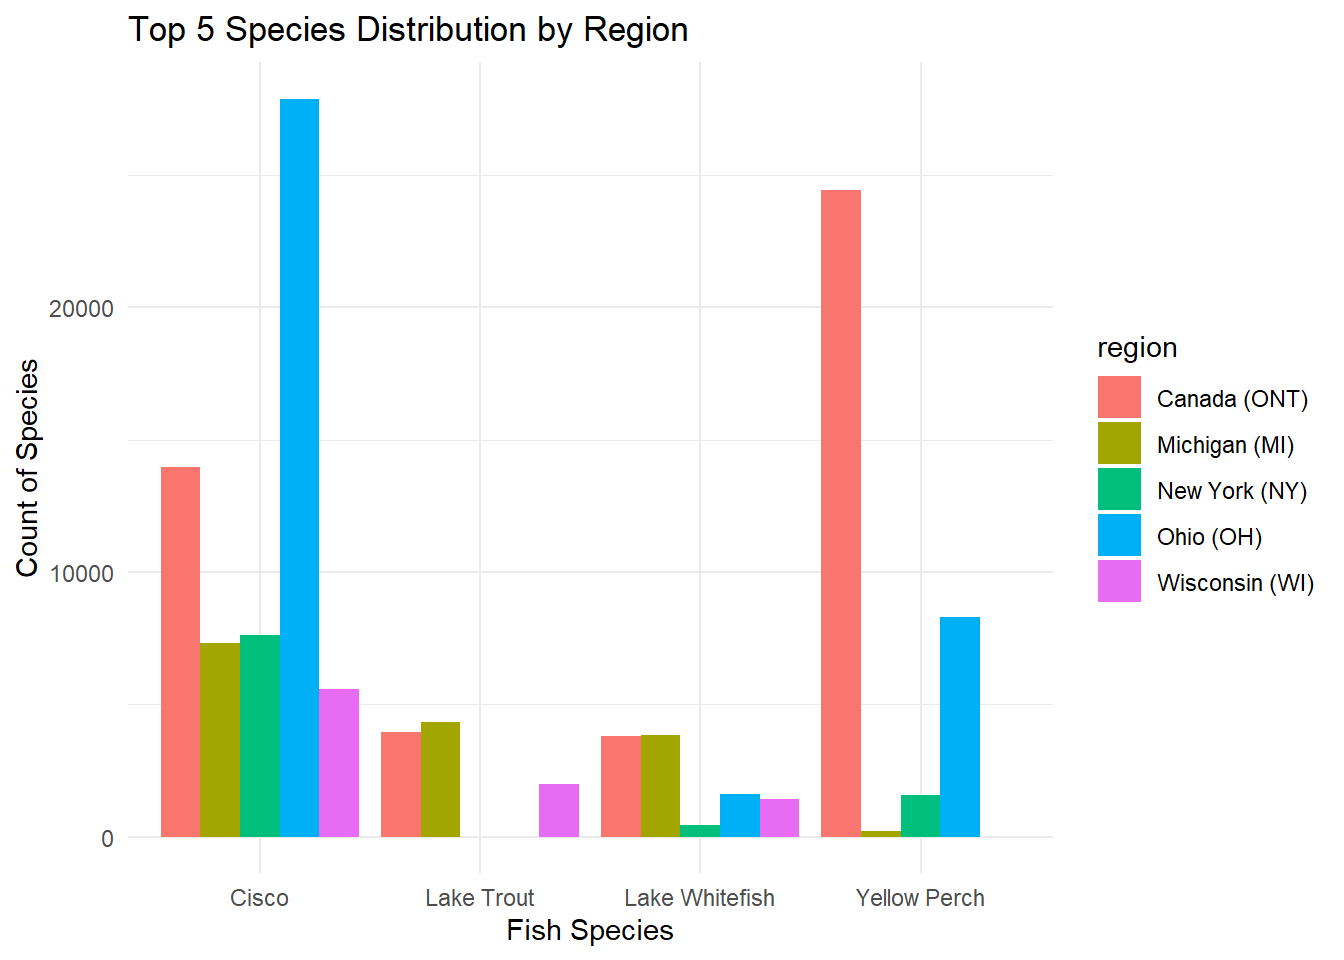
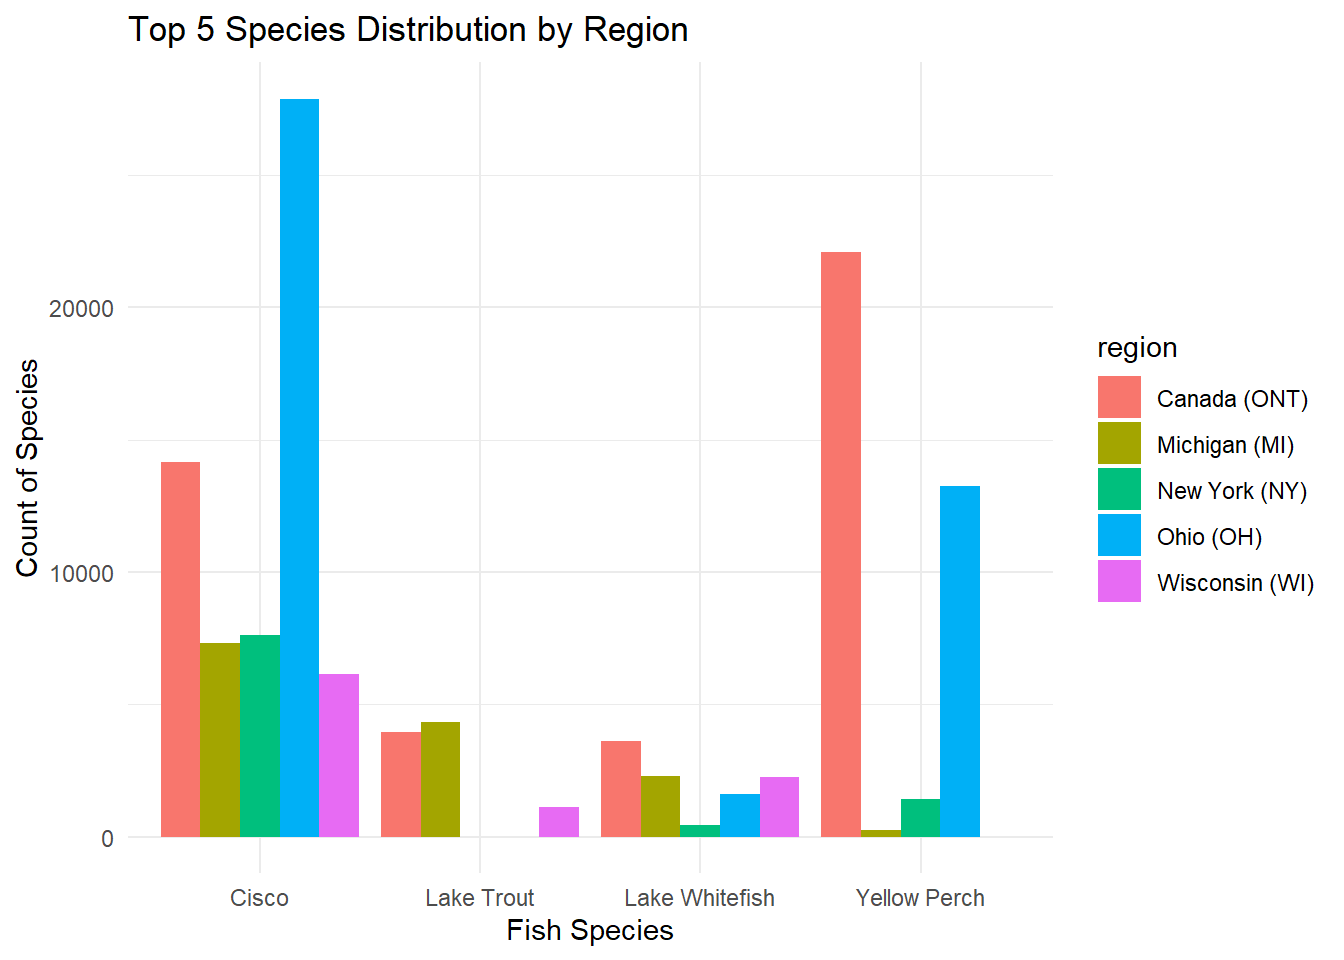
Homework 5

diff --git a/Great Lake Fish Analysis.html b/Great Lake Fish Analysis.html
@@ -111,9 +111,9 @@ pre > code.sourceCode > span > a:first-child::before { text-decoration: underlin
 </section>
 <section id="introduction" class="level2">
 <h2 class="anchored" data-anchor-id="introduction">Introduction</h2>
-<p>The Great Lakes form part of an ecosystem in the aquatic world and regional fisheries due to their numerous fish species. Sometimes, fish species within the same lake may be determined by the conditions around such lakes. This paper focuses on the species of fish within the Great Lakes and, in particular, tries to find out if there are differences in species among regions within the lakes.<br>
-In this analysis, there are two major variables of interest: species of fish and the region within which they occur. The species variable includes different types of fish such as Lake Sturgeon, Northern Pike, Suckers, White Perch, and Yellow Perch, among others. The region variable refers to different areas reporting their fish populations; examples include the U.S. Total (MI), and Canada (ONT).<br>
-This study aims to investigate how fish species vary among regions in the Great Lakes, which will also shed light on the regional ecological differences and the species distribution patterns.</p>
+<p>The Great Lakes, one of the largest freshwater ecosystems in the world, have been essential to maintaining commercial fish production for more than a hundred years. The fisheries in this basin have been an important economic and ecological resource, benefiting local communities, industries, and biodiversity. An understanding of trends in fish production across different locations and species proves to be most helpful in judging the health of ecosystems, trends in populations, and sustainability in fisheries management.</p>
+<p>This project examines historical and current commercial fish production records in the Great Lakes from 1867 to 2020. The data set, which was gathered from a number of government and tribal agencies, provides a comprehensive report of fish catches from different locations, species, and time intervals. Originally collected in 1940 by the international Board of Inquiry for the Great Lakes Fisheries, the data have been updated periodically by the Great Lakes Fisheries, the data have been updated periodically by the Great Lakes Fishery Commission and other agencies, keeping it current and accessible to researchers.</p>
+<p>For the analysis in this study, the region of occurrence and the species of fish are the two key variables. the top Five most caught species of fish have been emphasized in this research in a comparison of their occurrence over the chosen regions of Michigan (MI), New York (NY), Ohio (OH), Wisconsin (WI), and Ontario (ONT). The aim of this study is to investigate the potential variability of fish species in Great Lakes locations and hence increase the general understanding of regional ecological diversity and species distributional patterns.</p>
 </section>
 <section id="hypothesis" class="level2">
 <h2 class="anchored" data-anchor-id="hypothesis">Hypothesis</h2>
@@ -122,6 +122,7 @@ This study aims to investigate how fish species vary among regions in the Great 
 </section>
 <section id="gathering-data" class="level2">
 <h2 class="anchored" data-anchor-id="gathering-data">Gathering Data</h2>
+<p>The following code imports the tidyverse package and reads in two data sets with the read_cvs() function from readr. The fishing data set contains fishing data, while the stocked data set holds data about stocked fish. Each data set is read from a URL and imported into separate variables to be analyzed.</p>
 <div class="cell">
 <div class="sourceCode cell-code" id="cb1"><pre class="sourceCode r code-with-copy"><code class="sourceCode r"><span id="cb1-1"><a href="#cb1-1" aria-hidden="true" tabindex="-1"></a><span class="co">#install.packages("tidyverse")</span></span>
 <span id="cb1-2"><a href="#cb1-2" aria-hidden="true" tabindex="-1"></a><span class="fu">library</span>(tidyverse)</span></code><button title="Copy to Clipboard" class="code-copy-button"><i class="bi"></i></button></pre></div>
@@ -166,7 +167,10 @@ dbl (14): SID, YEAR, MONTH, DAY, LATITUDE, LONGITUDE, GRID, NO_STOCKED, YEAR...
 ℹ Specify the column types or set `show_col_types = FALSE` to quiet this message.</code></pre>
 </div>
 </div>
-<p>SOMETHING GOES HERE</p>
+</section>
+<section id="data-split" class="level2">
+<h2 class="anchored" data-anchor-id="data-split">Data Split</h2>
+<p>The following code splits the fishing data set into a training and a test set. The training data is put into exploratory_data, and the test data is put into test_data.</p>
 <div class="cell">
 <div class="sourceCode cell-code" id="cb8"><pre class="sourceCode r code-with-copy"><code class="sourceCode r"><span id="cb8-1"><a href="#cb8-1" aria-hidden="true" tabindex="-1"></a><span class="co">#install.packages("tidymodels")</span></span>
 <span id="cb8-2"><a href="#cb8-2" aria-hidden="true" tabindex="-1"></a><span class="fu">library</span>(tidymodels)</span></code><button title="Copy to Clipboard" class="code-copy-button"><i class="bi"></i></button></pre></div>
@@ -189,7 +193,7 @@ dbl (14): SID, YEAR, MONTH, DAY, LATITUDE, LONGITUDE, GRID, NO_STOCKED, YEAR...
 ✖ dplyr::lag()      masks stats::lag()
 ✖ yardstick::spec() masks readr::spec()
 ✖ recipes::step()   masks stats::step()
-• Dig deeper into tidy modeling with R at https://www.tmwr.org</code></pre>
+• Search for functions across packages at https://www.tidymodels.org/find/</code></pre>
 </div>
 <div class="sourceCode cell-code" id="cb12"><pre class="sourceCode r code-with-copy"><code class="sourceCode r"><span id="cb12-1"><a href="#cb12-1" aria-hidden="true" tabindex="-1"></a>my_data_splits <span class="ot">&lt;-</span> <span class="fu">initial_split</span>(fishing, <span class="at">prop =</span> <span class="fl">0.5</span>)</span>
 <span id="cb12-2"><a href="#cb12-2" aria-hidden="true" tabindex="-1"></a></span>
@@ -205,13 +209,13 @@ dbl (14): SID, YEAR, MONTH, DAY, LATITUDE, LONGITUDE, GRID, NO_STOCKED, YEAR...
 <span id="cb13-2"><a href="#cb13-2" aria-hidden="true" tabindex="-1"></a><span class="fu">str</span>(test_data)</span></code><button title="Copy to Clipboard" class="code-copy-button"><i class="bi"></i></button></pre></div>
 <div class="cell-output cell-output-stdout">
 <pre><code>spc_tbl_ [32,853 × 7] (S3: spec_tbl_df/tbl_df/tbl/data.frame)
- $ year       : num [1:32853] 1991 1991 1992 1992 1993 ...
+ $ year       : num [1:32853] 1991 1991 1991 1991 1992 ...
  $ lake       : chr [1:32853] "Erie" "Erie" "Erie" "Erie" ...
  $ species    : chr [1:32853] "American Eel" "American Eel" "American Eel" "American Eel" ...
- $ grand_total: num [1:32853] 1 1 0 0 0 0 0 0 0 0 ...
+ $ grand_total: num [1:32853] 1 1 1 1 0 0 0 0 0 0 ...
  $ comments   : chr [1:32853] NA NA NA NA ...
- $ region     : chr [1:32853] "Michigan (MI)" "New York (NY)" "Michigan (MI)" "U.S. Total" ...
- $ values     : num [1:32853] 0 0 0 0 0 0 0 0 0 0 ...
+ $ region     : chr [1:32853] "Michigan (MI)" "Ohio (OH)" "Pennsylvania (PA)" "Canada (ONT)" ...
+ $ values     : num [1:32853] 0 0 0 1 0 0 0 0 0 0 ...
  - attr(*, "spec")=
   .. cols(
   ..   year = col_double(),
@@ -261,6 +265,7 @@ dbl (14): SID, YEAR, MONTH, DAY, LATITUDE, LONGITUDE, GRID, NO_STOCKED, YEAR...
 </section>
 <section id="visualizing-species-distribution" class="level2">
 <h2 class="anchored" data-anchor-id="visualizing-species-distribution">Visualizing Species Distribution</h2>
+<p>The following coding function provides a bar graph of the distribution of fish species across the different regions. To enhance readability and prevent overcrowding, the five most common species by total count were used. The bars are ordered by region, to allow an easy comparison.</p>
 <div class="cell">
 <div class="sourceCode cell-code" id="cb17"><pre class="sourceCode r code-with-copy"><code class="sourceCode r"><span id="cb17-1"><a href="#cb17-1" aria-hidden="true" tabindex="-1"></a><span class="co"># Select top 5 species by total count from the test_data</span></span>
 <span id="cb17-2"><a href="#cb17-2" aria-hidden="true" tabindex="-1"></a>top_species <span class="ot">&lt;-</span> test_data <span class="sc">%&gt;%</span></span>
@@ -288,7 +293,7 @@ dbl (14): SID, YEAR, MONTH, DAY, LATITUDE, LONGITUDE, GRID, NO_STOCKED, YEAR...
 <span id="cb17-24"><a href="#cb17-24" aria-hidden="true" tabindex="-1"></a>  <span class="fu">theme</span>(<span class="at">axis.text.x =</span> <span class="fu">element_text</span>(<span class="at">angle =</span> <span class="dv">45</span>, <span class="at">hjust =</span> <span class="dv">1</span>)) <span class="sc">+</span></span>
 <span id="cb17-25"><a href="#cb17-25" aria-hidden="true" tabindex="-1"></a>  <span class="fu">theme_minimal</span>()</span></code><button title="Copy to Clipboard" class="code-copy-button"><i class="bi"></i></button></pre></div>
 <div class="cell-output cell-output-stderr">
-<pre><code>Warning: Removed 323 rows containing missing values or values outside the scale range
+<pre><code>Warning: Removed 357 rows containing missing values or values outside the scale range
 (`geom_bar()`).</code></pre>
 </div>
 <div class="cell-output-display">
@@ -297,6 +302,46 @@ dbl (14): SID, YEAR, MONTH, DAY, LATITUDE, LONGITUDE, GRID, NO_STOCKED, YEAR...
 <p><img src="Great-Lake-Fish-Analysis_files/figure-html/unnamed-chunk-5-1.png" class="img-fluid figure-img" width="672"></p>
 </figure>
 </div>
+</div>
+</div>
+<p>The bar graph illustrates the frequency of the top five species in the areas that were chosen. Ohio (OH) has the most amount of Cisco species, and Canada (ONT) has much more Yellow Perch species than the other regions. Other species, such as Lake Trout and Lake Whitefish, are spread out among different regions but in lower overall counts. Species variations reveal differences in distribution by region among fish, with potential explanations that might include environmental circumstances and fishing activity.</p>
+</section>
+<section id="something-goes-here" class="level2">
+<h2 class="anchored" data-anchor-id="something-goes-here">SOMETHING GOES HERE</h2>
+<div class="cell">
+<div class="sourceCode cell-code" id="cb19"><pre class="sourceCode r code-with-copy"><code class="sourceCode r"><span id="cb19-1"><a href="#cb19-1" aria-hidden="true" tabindex="-1"></a><span class="fu">ggplot</span>(filtered_data, <span class="fu">aes</span>(<span class="at">x =</span> values, <span class="at">y =</span> species, <span class="at">fill =</span> region)) <span class="sc">+</span></span>
+<span id="cb19-2"><a href="#cb19-2" aria-hidden="true" tabindex="-1"></a>  <span class="fu">geom_boxplot</span>(<span class="at">outliers =</span> <span class="cn">FALSE</span>) <span class="sc">+</span></span>
+<span id="cb19-3"><a href="#cb19-3" aria-hidden="true" tabindex="-1"></a>  <span class="fu">labs</span>(<span class="at">title =</span> <span class="st">"Species Count Distribution by Region"</span>,</span>
+<span id="cb19-4"><a href="#cb19-4" aria-hidden="true" tabindex="-1"></a>       <span class="at">x =</span> <span class="st">"Species Count"</span>,</span>
+<span id="cb19-5"><a href="#cb19-5" aria-hidden="true" tabindex="-1"></a>       <span class="at">y =</span> <span class="st">"Fish Species"</span>) <span class="sc">+</span></span>
+<span id="cb19-6"><a href="#cb19-6" aria-hidden="true" tabindex="-1"></a>  <span class="fu">theme_minimal</span>()</span></code><button title="Copy to Clipboard" class="code-copy-button"><i class="bi"></i></button></pre></div>
+<div class="cell-output cell-output-stderr">
+<pre><code>Warning: Removed 357 rows containing non-finite outside the scale range
+(`stat_boxplot()`).</code></pre>
+</div>
+<div class="cell-output-display">
+<div>
+<figure class="figure">
+<p><img src="Great-Lake-Fish-Analysis_files/figure-html/unnamed-chunk-6-1.png" class="img-fluid figure-img" width="672"></p>
+</figure>
+</div>
+</div>
+</div>
+<div class="cell">
+<div class="sourceCode cell-code" id="cb21"><pre class="sourceCode r code-with-copy"><code class="sourceCode r"><span id="cb21-1"><a href="#cb21-1" aria-hidden="true" tabindex="-1"></a><span class="co"># Create a contingency table of species count by region</span></span>
+<span id="cb21-2"><a href="#cb21-2" aria-hidden="true" tabindex="-1"></a>contingency_table <span class="ot">&lt;-</span> <span class="fu">table</span>(filtered_data<span class="sc">$</span>species, filtered_data<span class="sc">$</span>region)</span>
+<span id="cb21-3"><a href="#cb21-3" aria-hidden="true" tabindex="-1"></a></span>
+<span id="cb21-4"><a href="#cb21-4" aria-hidden="true" tabindex="-1"></a><span class="co"># Perform the Chi-Squared Test for Independence</span></span>
+<span id="cb21-5"><a href="#cb21-5" aria-hidden="true" tabindex="-1"></a>chi_squared_result <span class="ot">&lt;-</span> <span class="fu">chisq.test</span>(contingency_table)</span>
+<span id="cb21-6"><a href="#cb21-6" aria-hidden="true" tabindex="-1"></a></span>
+<span id="cb21-7"><a href="#cb21-7" aria-hidden="true" tabindex="-1"></a><span class="co"># Print the result</span></span>
+<span id="cb21-8"><a href="#cb21-8" aria-hidden="true" tabindex="-1"></a><span class="fu">print</span>(chi_squared_result)</span></code><button title="Copy to Clipboard" class="code-copy-button"><i class="bi"></i></button></pre></div>
+<div class="cell-output cell-output-stdout">
+<pre><code>
+    Pearson's Chi-squared test
+
+data:  contingency_table
+X-squared = 121.31, df = 12, p-value &lt; 2.2e-16</code></pre>
 </div>
 </div>
 </section>

diff --git a/Great Lake Fish Analysis.html.md b/Great Lake Fish Analysis.html.md
@@ -16,9 +16,11 @@ execute:
 
 ## Introduction
 
-The Great Lakes form part of an ecosystem in the aquatic world and regional fisheries due to their numerous fish species. Sometimes, fish species within the same lake may be determined by the conditions around such lakes. This paper focuses on the species of fish within the Great Lakes and, in particular, tries to find out if there are differences in species among regions within the lakes.\
-In this analysis, there are two major variables of interest: species of fish and the region within which they occur. The species variable includes different types of fish such as Lake Sturgeon, Northern Pike, Suckers, White Perch, and Yellow Perch, among others. The region variable refers to different areas reporting their fish populations; examples include the U.S. Total (MI), and Canada (ONT).\
-This study aims to investigate how fish species vary among regions in the Great Lakes, which will also shed light on the regional ecological differences and the species distribution patterns.
+The Great Lakes, one of the largest freshwater ecosystems in the world, have been essential to maintaining commercial fish production for more than a hundred years. The fisheries in this basin have been an important economic and ecological resource, benefiting local communities, industries, and biodiversity. An understanding of trends in fish production across different locations and species proves to be most helpful in judging the health of ecosystems, trends in populations, and sustainability in fisheries management.
+
+This project examines historical and current commercial fish production records in the Great Lakes from 1867 to 2020. The data set, which was gathered from a number of government and tribal agencies, provides a comprehensive report of fish catches from different locations, species, and time intervals. Originally collected in 1940 by the international Board of Inquiry for the Great Lakes Fisheries, the data have been updated periodically by the Great Lakes Fisheries, the data have been updated periodically by the Great Lakes Fishery Commission and other agencies, keeping it current and accessible to researchers.
+
+For the analysis in this study, the region of occurrence and the species of fish are the two key variables. the top Five most caught species of fish have been emphasized in this research in a comparison of their occurrence over the chosen regions of Michigan (MI), New York (NY), Ohio (OH), Wisconsin (WI), and Ontario (ONT). The aim of this study is to investigate the potential variability of fish species in Great Lakes locations and hence increase the general understanding of regional ecological diversity and species distributional patterns.
 
 ## Hypothesis
 
@@ -27,6 +29,8 @@ This study aims to investigate how fish species vary among regions in the Great 
 **Alternative Hypothesis:** The species of fish are highly distributed among different regions within the Great Lakes. In other words, some species are more predominant in certain regions, indicating a relationship between the types of species and the regional location.
 
 ## Gathering Data
+
+The following code imports the tidyverse package and reads in two data sets with the read_cvs() function from readr. The fishing data set contains fishing data, while the stocked data set holds data about stocked fish. Each data set is read from a URL and imported into separate variables to be analyzed.
 
 
 
@@ -110,7 +114,9 @@ dbl (14): SID, YEAR, MONTH, DAY, LATITUDE, LONGITUDE, GRID, NO_STOCKED, YEAR...
 
 
 
-SOMETHING GOES HERE
+## Data Split 
+
+The following code splits the fishing data set into a training and a test set. The training data is put into exploratory_data, and the test data is put into test_data.
 
 
 
@@ -154,7 +160,7 @@ library(tidymodels)
 ✖ dplyr::lag()      masks stats::lag()
 ✖ yardstick::spec() masks readr::spec()
 ✖ recipes::step()   masks stats::step()
-• Dig deeper into tidy modeling with R at https://www.tmwr.org
+• Search for functions across packages at https://www.tidymodels.org/find/
 ```
 
 
@@ -187,13 +193,13 @@ str(test_data)
 
 ```
 spc_tbl_ [32,853 × 7] (S3: spec_tbl_df/tbl_df/tbl/data.frame)
- $ year       : num [1:32853] 1991 1991 1992 1992 1993 ...
+ $ year       : num [1:32853] 1991 1991 1991 1991 1992 ...
  $ lake       : chr [1:32853] "Erie" "Erie" "Erie" "Erie" ...
  $ species    : chr [1:32853] "American Eel" "American Eel" "American Eel" "American Eel" ...
- $ grand_total: num [1:32853] 1 1 0 0 0 0 0 0 0 0 ...
+ $ grand_total: num [1:32853] 1 1 1 1 0 0 0 0 0 0 ...
  $ comments   : chr [1:32853] NA NA NA NA ...
- $ region     : chr [1:32853] "Michigan (MI)" "New York (NY)" "Michigan (MI)" "U.S. Total" ...
- $ values     : num [1:32853] 0 0 0 0 0 0 0 0 0 0 ...
+ $ region     : chr [1:32853] "Michigan (MI)" "Ohio (OH)" "Pennsylvania (PA)" "Canada (ONT)" ...
+ $ values     : num [1:32853] 0 0 0 1 0 0 0 0 0 0 ...
  - attr(*, "spec")=
   .. cols(
   ..   year = col_double(),
@@ -264,6 +270,8 @@ This is a format table where rows correspond to regions, and columns correspond 
 
 ## Visualizing Species Distribution
 
+The following coding function provides a bar graph of the distribution of fish species across the different regions. To enhance readability and prevent overcrowding, the five most common species by total count were used. The bars are ordered by region, to allow an easy comparison.
+
 
 
 ::: {.cell}
@@ -299,7 +307,7 @@ ggplot(filtered_data, aes(x = species, y = values, fill = region)) +  # Use 'val
 ::: {.cell-output .cell-output-stderr}
 
 ```
-Warning: Removed 323 rows containing missing values or values outside the scale range
+Warning: Removed 357 rows containing missing values or values outside the scale range
 (`geom_bar()`).
 ```
 
@@ -308,5 +316,66 @@ Warning: Removed 323 rows containing missing values or values outside the scale 
 
 ::: {.cell-output-display}
 ![](Great-Lake-Fish-Analysis_files/figure-html/unnamed-chunk-5-1.png){width=672}
+:::
+:::
+
+
+
+The bar graph illustrates the frequency of the top five species in the areas that were chosen. Ohio (OH) has the most amount of Cisco species, and Canada (ONT) has much more Yellow Perch species than the other regions. Other species, such as Lake Trout and Lake Whitefish, are spread out among different regions but in lower overall counts. Species variations reveal differences in distribution by region among fish, with potential explanations that might include environmental circumstances and fishing activity.
+
+## SOMETHING GOES HERE 
+
+
+
+::: {.cell}
+
+```{.r .cell-code}
+ggplot(filtered_data, aes(x = values, y = species, fill = region)) +
+  geom_boxplot(outliers = FALSE) +
+  labs(title = "Species Count Distribution by Region",
+       x = "Species Count",
+       y = "Fish Species") +
+  theme_minimal()
+```
+
+::: {.cell-output .cell-output-stderr}
+
+```
+Warning: Removed 357 rows containing non-finite outside the scale range
+(`stat_boxplot()`).
+```
+
+
+:::
+
+::: {.cell-output-display}
+![](Great-Lake-Fish-Analysis_files/figure-html/unnamed-chunk-6-1.png){width=672}
+:::
+:::
+
+::: {.cell}
+
+```{.r .cell-code}
+# Create a contingency table of species count by region
+contingency_table <- table(filtered_data$species, filtered_data$region)
+
+# Perform the Chi-Squared Test for Independence
+chi_squared_result <- chisq.test(contingency_table)
+
+# Print the result
+print(chi_squared_result)
+```
+
+::: {.cell-output .cell-output-stdout}
+
+```
+
+	Pearson's Chi-squared test
+
+data:  contingency_table
+X-squared = 121.31, df = 12, p-value < 2.2e-16
+```
+
+
 :::
 :::
